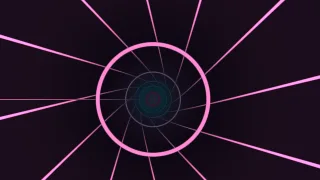
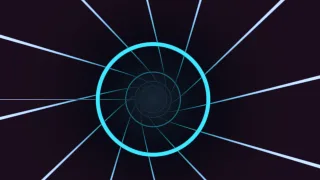
fix(app): visual settings read as percentages, multipliers and units on one line; edits name the setting; Artwork picks a project image; Tunnel's color draws its lines

diff --git a/src/app/screens/editor/inspector/PluginParams.tsx b/src/app/screens/editor/inspector/PluginParams.tsx
@@ -1,5 +1,5 @@
 import type { ParamSpec } from '../../../../engine/types.ts'
-import type { Clip, PropertyPath } from '../../../../model/index.ts'
+import type { Clip, Project, PropertyPath } from '../../../../model/index.ts'
 import {
   AnimateButtons,
   ColorField,
@@ -10,6 +10,8 @@ import {
   Slider,
   Switch,
 } from '../../../ds/Fields.tsx'
+import { formatParam } from '../../../format.ts'
+import { useProject } from '../../../state/project.ts'
 import { useAnimatable } from './animatable.ts'
 import styles from '../Inspector.module.css'
 
@@ -19,15 +21,32 @@ type NumberSpec = Extract<ParamSpec, { type: 'number' }>
 
 const stepOf = (spec: NumberSpec) => spec.step ?? (spec.max - spec.min) / 100
 
-function formatNumber(spec: NumberSpec, n: number): string {
-  const step = stepOf(spec)
-  const text = n.toFixed(step >= 1 ? 0 : step >= 0.1 ? 1 : 2)
-  return spec.unit ? `${text} ${spec.unit}` : text
+/** Stands for no image: a select option can't have an empty value. */
+const NONE = 'none'
+
+/** The choices for an image setting: none, the project's images, and the value when it is a built-in file. */
+function imageOptions(project: Project, value: string) {
+  const images = Object.values(project.assets).filter((asset) => asset.kind === 'image')
+  const options: { value: string; label: string; description?: string; disabled?: boolean }[] = [
+    { value: NONE, label: 'None' },
+    ...images.map((asset) => ({ value: asset.id, label: asset.name })),
+  ]
+  if (!options.some((o) => o.value === value))
+    options.push({ value, label: value.replace(/^bundled:/, '').replace(/^.*\//, '') })
+  if (!images.length)
+    options.push({
+      value: 'no-images',
+      label: 'No images yet',
+      description: 'Import one in Media',
+      disabled: true,
+    })
+  return options
 }
 
 /** One plugin parameter (of a generator or an effect) as an inspector row, for the Animatable at `path`. */
 export function ParamRow({ clip, path, spec }: { clip: Clip; path: PropertyPath; spec: ParamSpec }) {
-  const a = useAnimatable(clip, path, spec.default)
+  const project = useProject()
+  const a = useAnimatable(clip, path, spec.default, { label: spec.label })
   const once = (value: string | boolean) => {
     a.set(value)
     a.commit()
@@ -50,6 +69,7 @@ export function ParamRow({ clip, path, spec }: { clip: Clip; path: PropertyPath;
             />
           </FieldRow>
         )
+      const shown = formatParam(spec, n)
       return (
         <FieldRow
           label={spec.label}
@@ -65,8 +85,9 @@ export function ParamRow({ clip, path, spec }: { clip: Clip; path: PropertyPath;
             onChange={a.set}
             onCommit={a.commit}
             ariaLabel={spec.label}
+            valueText={shown}
           />
-          <span className={`${styles.value} tnum`}>{formatNumber(spec, n)}</span>
+          <span className={`${styles.value} ${spec.unit ? styles.valueUnit : ''} tnum`}>{shown}</span>
         </FieldRow>
       )
     }
@@ -99,6 +120,19 @@ export function ParamRow({ clip, path, spec }: { clip: Clip; path: PropertyPath;
           <Switch checked={!!a.value} onCheckedChange={once} ariaLabel={spec.label} />
         </FieldRow>
       )
+    case 'image': {
+      const value = String(a.value ?? '') || NONE
+      return (
+        <FieldRow label={spec.label} trailing={spacer}>
+          <Select
+            value={value}
+            onChange={(v) => once(v === NONE ? '' : v)}
+            ariaLabel={spec.label}
+            options={imageOptions(project, value)}
+          />
+        </FieldRow>
+      )
+    }
     default:
       return null
   }

diff --git a/tests/e2e/generator-inspector.spec.ts b/tests/e2e/generator-inspector.spec.ts
@@ -84,3 +84,43 @@ test('a visualizer follows one stem once stems are separated, and says how to ge
   await page.keyboard.press(process.platform === 'darwin' ? 'Meta+z' : 'Control+z')
   await expect.poll(async () => (await spectrum(page))?.audio).toBeNull()
 })
+
+test('values read as percentages and multipliers, an edit names its setting, and Circle spectrum’s artwork is a project image', async ({
+  page,
+}) => {
+  await openVisualizer(page)
+  const height = page.getByRole('slider', { name: 'Height' })
+  const pct = Math.round(Number((await spectrum(page))?.height) * 100)
+  await expect(height).toHaveAttribute('aria-valuetext', `${pct}%`)
+  await height.focus()
+  await page.keyboard.press('ArrowRight')
+  expect(await page.evaluate(() => window.mvStudio.app.project.editor.undoLabel())).toBe('Change height')
+
+  // A circle spectrum over the chorus, selected.
+  const image = await page.evaluate(() => {
+    const { app, plugins } = window.mvStudio
+    const project: Project = app.project.editor.getProject()
+    const track = project.tracks.find((t) => t.name === 'Overlay')!
+    const clip = plugins.library.createGeneratorClip({
+      trackId: track.id,
+      generatorId: 'visualizer.circle',
+      start: 100,
+      duration: 4,
+    })
+    app.project.editor.dispatch({ type: 'clip.add', clip: { ...clip, id: 'e2e-circle' } })
+    window.location.hash = '#/editor?sel=clip:e2e-circle&t=101'
+    return Object.values(project.assets).find((a) => a.kind === 'image')!
+  })
+  await expect(page.getByRole('slider', { name: 'Radius' })).toHaveAttribute('aria-valuetext', '20%')
+  const artwork = () =>
+    page.evaluate(() => {
+      const clip = window.mvStudio.app.project.editor.getProject().clips['e2e-circle']
+      return clip?.type === 'generator' ? clip.params.artwork?.value : null
+    })
+  await page.getByRole('combobox', { name: 'Artwork' }).click()
+  await page.getByRole('option', { name: image.name, exact: true }).click()
+  expect(await artwork()).toBe(image.id)
+  await page.getByRole('combobox', { name: 'Artwork' }).click()
+  await page.getByRole('option', { name: 'None', exact: true }).click()
+  expect(await artwork()).toBe('')
+})

diff --git a/src/app/screens/editor/inspector/animatable.ts b/src/app/screens/editor/inspector/animatable.ts
@@ -66,6 +66,12 @@ function createAt(clip: Clip, path: PropertyPath, value: ParamValue): EditComman
 /** The react button without a panel turns this reaction on and off. */
 const QUICK_REACTION = 'kick'
 
+/** Where a row reads the clip, and the setting's name for the undo label ("Change height"). */
+interface RowOptions {
+  project?: Project
+  label?: string
+}
+
 /**
  * Binds one animatable clip property to the edit API: value edits coalesce per gesture, the keyframe button, and the
  * react button, which opens the music reactions for the property. A clip that lacks the property shows `fallback`
@@ -75,7 +81,7 @@ export function animatableRow(
   clip: Clip,
   path: PropertyPath,
   fallback?: ParamValue,
-  project: Project = editor.getProject(),
+  { project = editor.getProject(), label }: RowOptions = {},
 ) {
   let node: unknown = clip
   for (const k of path) node = (node as Record<string | number, unknown> | undefined)?.[k]
@@ -123,9 +129,7 @@ export function animatableRow(
           path: [...path, 'value'],
           value,
         },
-        {
-          coalesceKey: gesture,
-        },
+        { coalesceKey: gesture, label: label && `Change ${label.charAt(0).toLowerCase()}${label.slice(1)}` },
       ),
     commit: () => editor.endGesture(),
     key,
@@ -145,6 +149,11 @@ export function animatableRow(
  * animatableRow() for an inspector row, re-rendered by project changes that affect the react button, such as stems
  * finishing separation. Spread `buttons` into AnimateButtons.
  */
-export function useAnimatable(clip: Clip, path: PropertyPath, fallback?: ParamValue) {
-  return animatableRow(clip, path, fallback, useProject())
+export function useAnimatable(
+  clip: Clip,
+  path: PropertyPath,
+  fallback?: ParamValue,
+  options: RowOptions = {},
+) {
+  return animatableRow(clip, path, fallback, { ...options, project: useProject() })
 }

diff --git a/tests/unit/app/format.test.ts b/tests/unit/app/format.test.ts
@@ -1,5 +1,5 @@
 import { expect, it } from 'vitest'
-import { editedAgo } from '../../../src/app/format.ts'
+import { editedAgo, formatParam } from '../../../src/app/format.ts'
 
 const now = new Date(2026, 9, 31, 15, 0).getTime()
 const at = (...parts: [number, number, number, number, number]) => new Date(...parts).toISOString()
@@ -17,4 +17,17 @@ it('says "yesterday", then the date, with the year only when it is not this year
   expect(editedAgo(at(2026, 9, 30, 2, 0), now)).toBe('Edited yesterday')
   expect(editedAgo(at(2026, 9, 24, 12, 0), now)).toBe('Edited Oct 24')
   expect(editedAgo(at(2025, 11, 2, 12, 0), now)).toBe('Edited Dec 2, 2025')
+})
+
+it('shows a setting’s value with its unit, as a percentage for amounts and as a multiplier for factors', () => {
+  const number = (o: { min: number; max: number; step?: number; unit?: string }) =>
+    ({ key: 'k', label: 'K', type: 'number', default: o.min, ...o }) as const
+  expect(formatParam(number({ min: 0.05, max: 1, step: 0.01 }), 0.6)).toBe('60%')
+  expect(formatParam(number({ min: -1, max: 1, step: 0.01 }), -0.2)).toBe('-20%')
+  expect(formatParam(number({ min: 0, max: 2, step: 0.01 }), 1)).toBe('1.0×')
+  expect(formatParam(number({ min: -0.5, max: 0.5, step: 0.005, unit: 'turns/s' }), 0.02)).toBe(
+    '0.02 turns/s',
+  )
+  expect(formatParam(number({ min: 0, max: 360, step: 1, unit: '°' }), 30)).toBe('30°')
+  expect(formatParam(number({ min: 1, max: 6, step: 0.1 }), 2.5)).toBe('2.5')
 })

diff --git a/src/plugins/generators/scenes.ts b/src/plugins/generators/scenes.ts
@@ -63,7 +63,7 @@ export const tunnel: GeneratorDefinition = {
   cost: 'low',
   params: [
     { key: 'color', label: 'Color', type: 'color', default: '#22d3ee' },
-    { key: 'color2', label: 'Second color', type: 'color', default: '#f472b6' },
+    { key: 'color2', label: 'Pulse color', type: 'color', default: '#f472b6' },
     background(),
     speed(1),
     {
@@ -109,10 +109,10 @@ vec4 mainImage(vec2 uv) {
   float hit = u_reactivity * drumHit();
   // A ring of light runs toward the camera on every beat.
   float pulse = exp(-pow((fract(depth * 0.25 - u_beatPhase) - 0.5) * 9.0, 2.0)) * (0.4 + hit);
-  vec3 tint = mix(u_color.rgb, u_color2.rgb, 0.5 + 0.5 * sin(depth * 0.7));
   float lines = max(rings, spokes * 0.7);
-  vec3 light = tint * (lines * (0.55 + 0.6 * hit + 0.8 * pulse) + pulse * 0.08) * near;
-  light += tint * 0.12 * exp(-r * 6.0) * (1.0 + hit);
+  // The color draws the tunnel's lines; the pulse color is the ring of light each beat sends down it.
+  vec3 light = (u_color.rgb * lines * (0.55 + 0.6 * hit) + u_color2.rgb * (lines * 0.8 + 0.08) * pulse) * near;
+  light += mix(u_color.rgb, u_color2.rgb, 0.3) * 0.12 * exp(-r * 6.0) * (1.0 + hit);
   return scene(light * (0.85 + 0.3 * u_reactivity * bassLevel()));
 }`,
 }

diff --git a/src/app/screens/editor/inspector/parts.tsx b/src/app/screens/editor/inspector/parts.tsx
@@ -54,7 +54,7 @@ function NumberProp({
   step?: number
   prefix?: string
 }) {
-  const a = useAnimatable(clip, path)
+  const a = useAnimatable(clip, path, undefined, { label })
   return (
     <NumberField
       value={toView(Number(a.value ?? 0))}
@@ -121,7 +121,7 @@ export function TransformSection({ clip }: { clip: VisualClip }) {
                 { type: 'clip.set', clipId: clip.id, path: ['transform', 'scaleX', 'value'], value: v / 100 },
                 { type: 'clip.set', clipId: clip.id, path: ['transform', 'scaleY', 'value'], value: v / 100 },
               ],
-              { coalesceKey: `inspector:${clip.id}:scale` },
+              { coalesceKey: `inspector:${clip.id}:scale`, label: 'Change scale' },
             )
           }
           onCommit={scale.commit}
@@ -145,7 +145,7 @@ export function TransformSection({ clip }: { clip: VisualClip }) {
 }
 
 export function CompositingSection({ clip }: { clip: VisualClip }) {
-  const opacity = useAnimatable(clip, ['opacity'])
+  const opacity = useAnimatable(clip, ['opacity'], undefined, { label: 'Opacity' })
   const pct = Math.round(Number(opacity.value ?? 1) * 100)
   return (
     <Section title="Compositing">

diff --git a/src/app/format.ts b/src/app/format.ts
@@ -1,3 +1,5 @@
+import type { ParamSpec } from '../engine/types.ts'
+
 export function formatTime(t: number, withTenths = false): string {
   const m = Math.floor(t / 60)
   const s = t - m * 60
@@ -48,4 +50,17 @@ export function formatBytes(bytes: number): string {
   if (bytes >= 1e9) return `${(bytes / 1e9).toFixed(1)} GB`
   if (bytes > 0 && bytes < 1e6) return 'under 1 MB'
   return `${Math.round(bytes / 1e6)} MB`
+}
+
+/**
+ * A number setting's value as the Inspector shows it: with its unit when it has one; an amount within -1..1 as a
+ * percentage, like Opacity; a factor up to 4 (Speed, Reactivity) as a multiplier; anything else as the number.
+ */
+export function formatParam(spec: Extract<ParamSpec, { type: 'number' }>, n: number): string {
+  const step = spec.step ?? (spec.max - spec.min) / 100
+  const text = n.toFixed(step >= 1 ? 0 : step >= 0.1 ? 1 : 2)
+  if (spec.unit) return spec.unit.startsWith('°') ? `${text}${spec.unit}` : `${text} ${spec.unit}`
+  if (spec.min >= -1 && spec.max <= 1) return `${Math.round(n * 100)}%`
+  if (spec.min >= 0 && spec.max <= 4 && step < 1) return `${n.toFixed(1)}×`
+  return text
 }

diff --git a/tests/unit/app/animatable.test.ts b/tests/unit/app/animatable.test.ts
@@ -62,6 +62,12 @@ describe('a row for a property the clip lacks', () => {
     expect(undone?.type === 'text' && undone.adjustments?.contrast).toBeFalsy()
   })
 
+  it('names the setting in the undo label', () => {
+    const clip = bareText()
+    animatableRow(clip, ['adjustments', 'contrast'], 0, { label: 'Contrast' }).set(0.3)
+    expect(editor.undoLabel()).toBe('Change contrast')
+  })
+
   it('creates the property with its fallback value when a keyframe is added', () => {
     const clip = bareText()
     animatableRow(clip, ['adjustments', 'contrast'], 0).key()

diff --git a/src/app/screens/editor/inspector/Look.tsx b/src/app/screens/editor/inspector/Look.tsx
@@ -21,7 +21,7 @@ function lookSpan(project: Project, clip: VisualClip): string {
 
 /** The look's intensity is the opacity of its layer, so it can be keyframed and react to the music. */
 function LookIntensity({ clip }: { clip: VisualClip }) {
-  const intensity = useAnimatable(clip, ['opacity'])
+  const intensity = useAnimatable(clip, ['opacity'], undefined, { label: 'Look intensity' })
   const pct = Math.round(Number(intensity.value ?? 1) * 100)
   return (
     <FieldRow

diff --git a/src/plugins/thumbnails.manifest.ts b/src/plugins/thumbnails.manifest.ts
@@ -51,7 +51,7 @@ export const THUMBNAILS: Record<string, Record<string, string>> = {
     'visualizer.particles': '4192e8e7e7',
     'visualizer.circle': 'e557631cae',
     'visualizer.orb': 'f41ca93b0a',
-    'generator.tunnel': '852c666170',
+    'generator.tunnel': '8d1e9772f2',
     'generator.starfield': '40bb3bfd15',
     'generator.synthwave': 'aa87debdda',
     'generator.geometry': 'd2a5e322d1',

diff --git a/src/app/ds/Fields.tsx b/src/app/ds/Fields.tsx
@@ -485,7 +485,7 @@ function splitColor(value: string): { hex: string; alpha: string } | null {
 /** The color as shown: #RRGGBB, or #RRGGBBAA when it is see-through. */
 function shownColor(value: string): string {
   const c = splitColor(value)
-  return (c ? c.hex + c.alpha : value).toUpperCase()
+  return (c ? c.hex + (c.alpha === 'ff' ? '' : c.alpha) : value).toUpperCase()
 }
 
 /**

diff --git a/src/app/screens/editor/inspector/Effects.tsx b/src/app/screens/editor/inspector/Effects.tsx
@@ -24,7 +24,7 @@ function AdjustmentRow({
   adjustment: ColorAdjustmentKey
   label: string
 }) {
-  const a = useAnimatable(clip, ['adjustments', adjustment], 0)
+  const a = useAnimatable(clip, ['adjustments', adjustment], 0, { label })
   return (
     <FieldRow label={label} trailing={<AnimateButtons property={label} {...a.buttons} />}>
       <Slider
